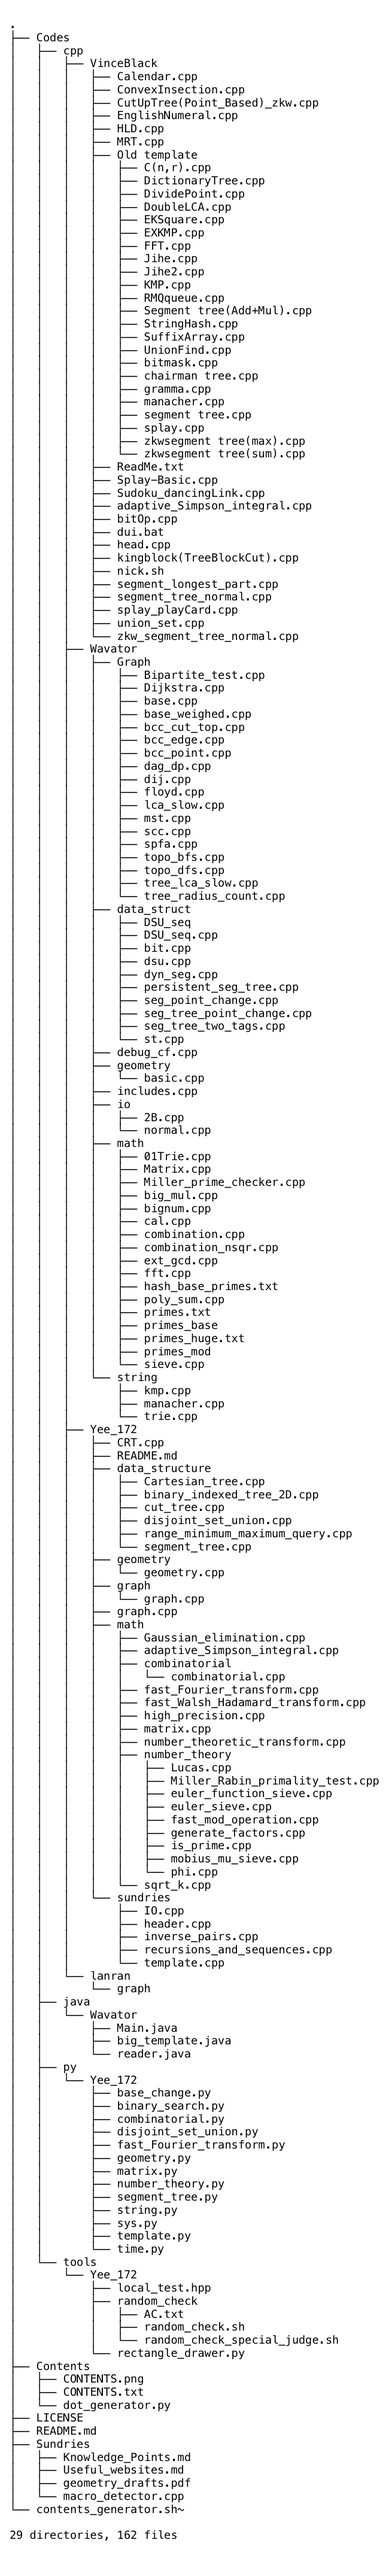
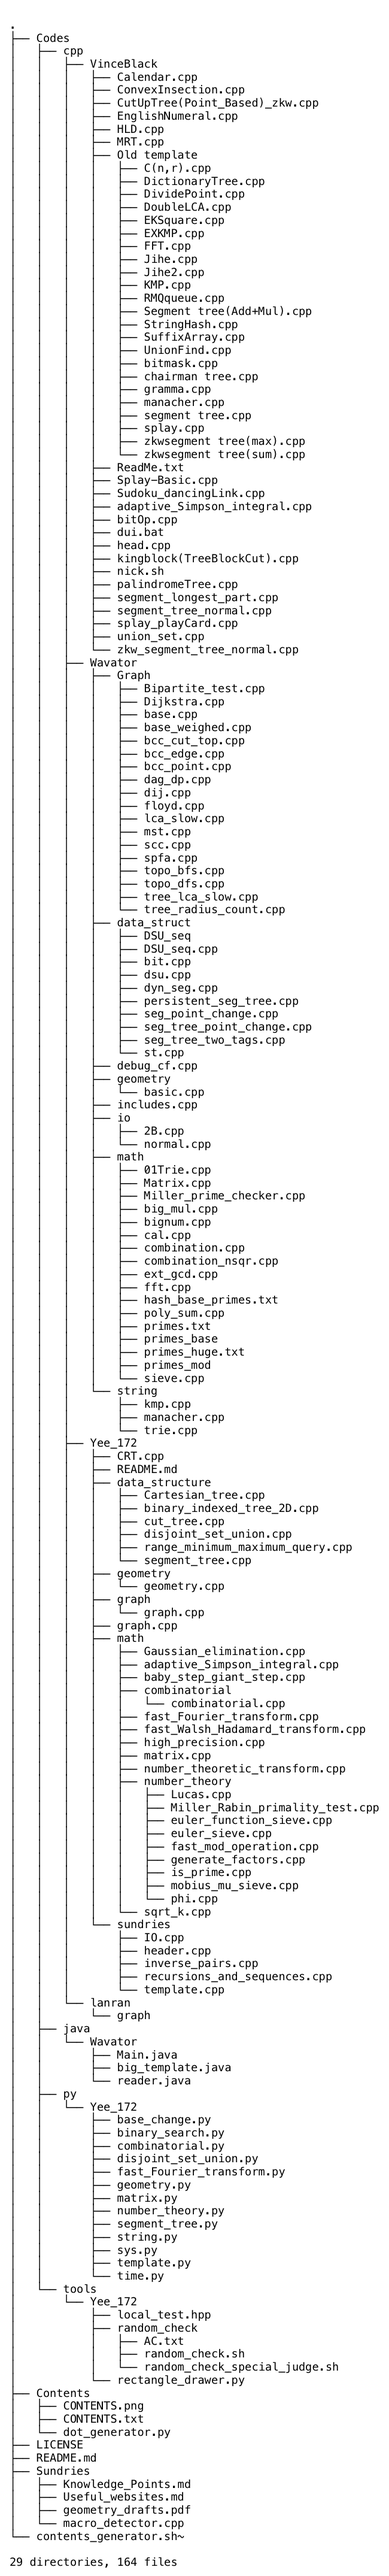
Update

diff --git a/Codes/cpp/Yee_172/math/baby_step_giant_step.cpp b/Codes/cpp/Yee_172/math/baby_step_giant_step.cpp
@@ -1,0 +1,65 @@
+#include <bits/stdc++.h>
+using namespace std;
+
+namespace baby_step_giant_step
+{
+    inline int __mul__(long long a, const int b, const int mod)
+    {
+        a *= b;
+        return (int) (a < mod ? a : a - a / mod * mod);
+    }
+
+    inline int __pow__(int a, long long b, const int mod)
+    {
+        int r = 1;
+        for (; b; b >>= 1, a = __mul__(a, a, mod)) if (b & 1) r = __mul__(r, a, mod);
+        return r;
+    }
+
+    inline int __mod__(const long long a, const int mod) { return (int) (a < mod ? a : a - a / mod * mod); }
+
+    void extend_gcd(int a, int b, int &d, int &x, int &y)
+    {
+        if (!b) { d = a; x = 1; y = 0; }
+        else { extend_gcd(b, a % b, d, y, x); y -= x * (a / b); }
+    }
+
+    inline int find_inverse(const int a, const int b, const int mod)
+    {
+        int x, y, r, d;
+        extend_gcd(a, mod, d, x, y);
+        r = (int) ((ll) x * b % mod);
+        // a * x + mod * y = 1
+        // a * r % mod = b
+        return r < 0 ? r + mod : r;
+    }
+
+    int BSGS(int A, int B, int C) // A^x = B (mod C)
+    {
+        int buf = __mod__(1, C), D = buf, K, d = 0, tmp, M;
+        // small steps
+        for (int i = 0; i <= 100; buf = __mul__(buf, A, C), ++i)
+            if (buf == B) return i;
+        while ((tmp = __gcd(A, C)) ^ 1)
+        {
+            if (B % __gcd(A, C)) return -1;
+            ++d;
+            C /= tmp;
+            B /= tmp;
+            D = __mod__((ll) D * A / tmp, C);
+        }
+        unordered_map<int, int> H;
+        M = (int) ceil(sqrt(C));
+        buf = __mod__(1, C);
+        for (int i = 0; i <= M; buf = __mul__(buf, A, C), ++i)
+            if (H.find(buf) == H.end()) H[buf] = i;
+        K = __pow__(A, M, C);
+        for (int i = 0; i <= M; D = __mul__(D, K, C), ++i)
+        {
+            tmp = find_inverse(D, B, C);
+            if (tmp >= 0 && H.find(tmp) != H.end()) return i * M + H[tmp] + d;
+        }
+        return -1;
+    }
+}
+using baby_step_giant_step::BSGS;
